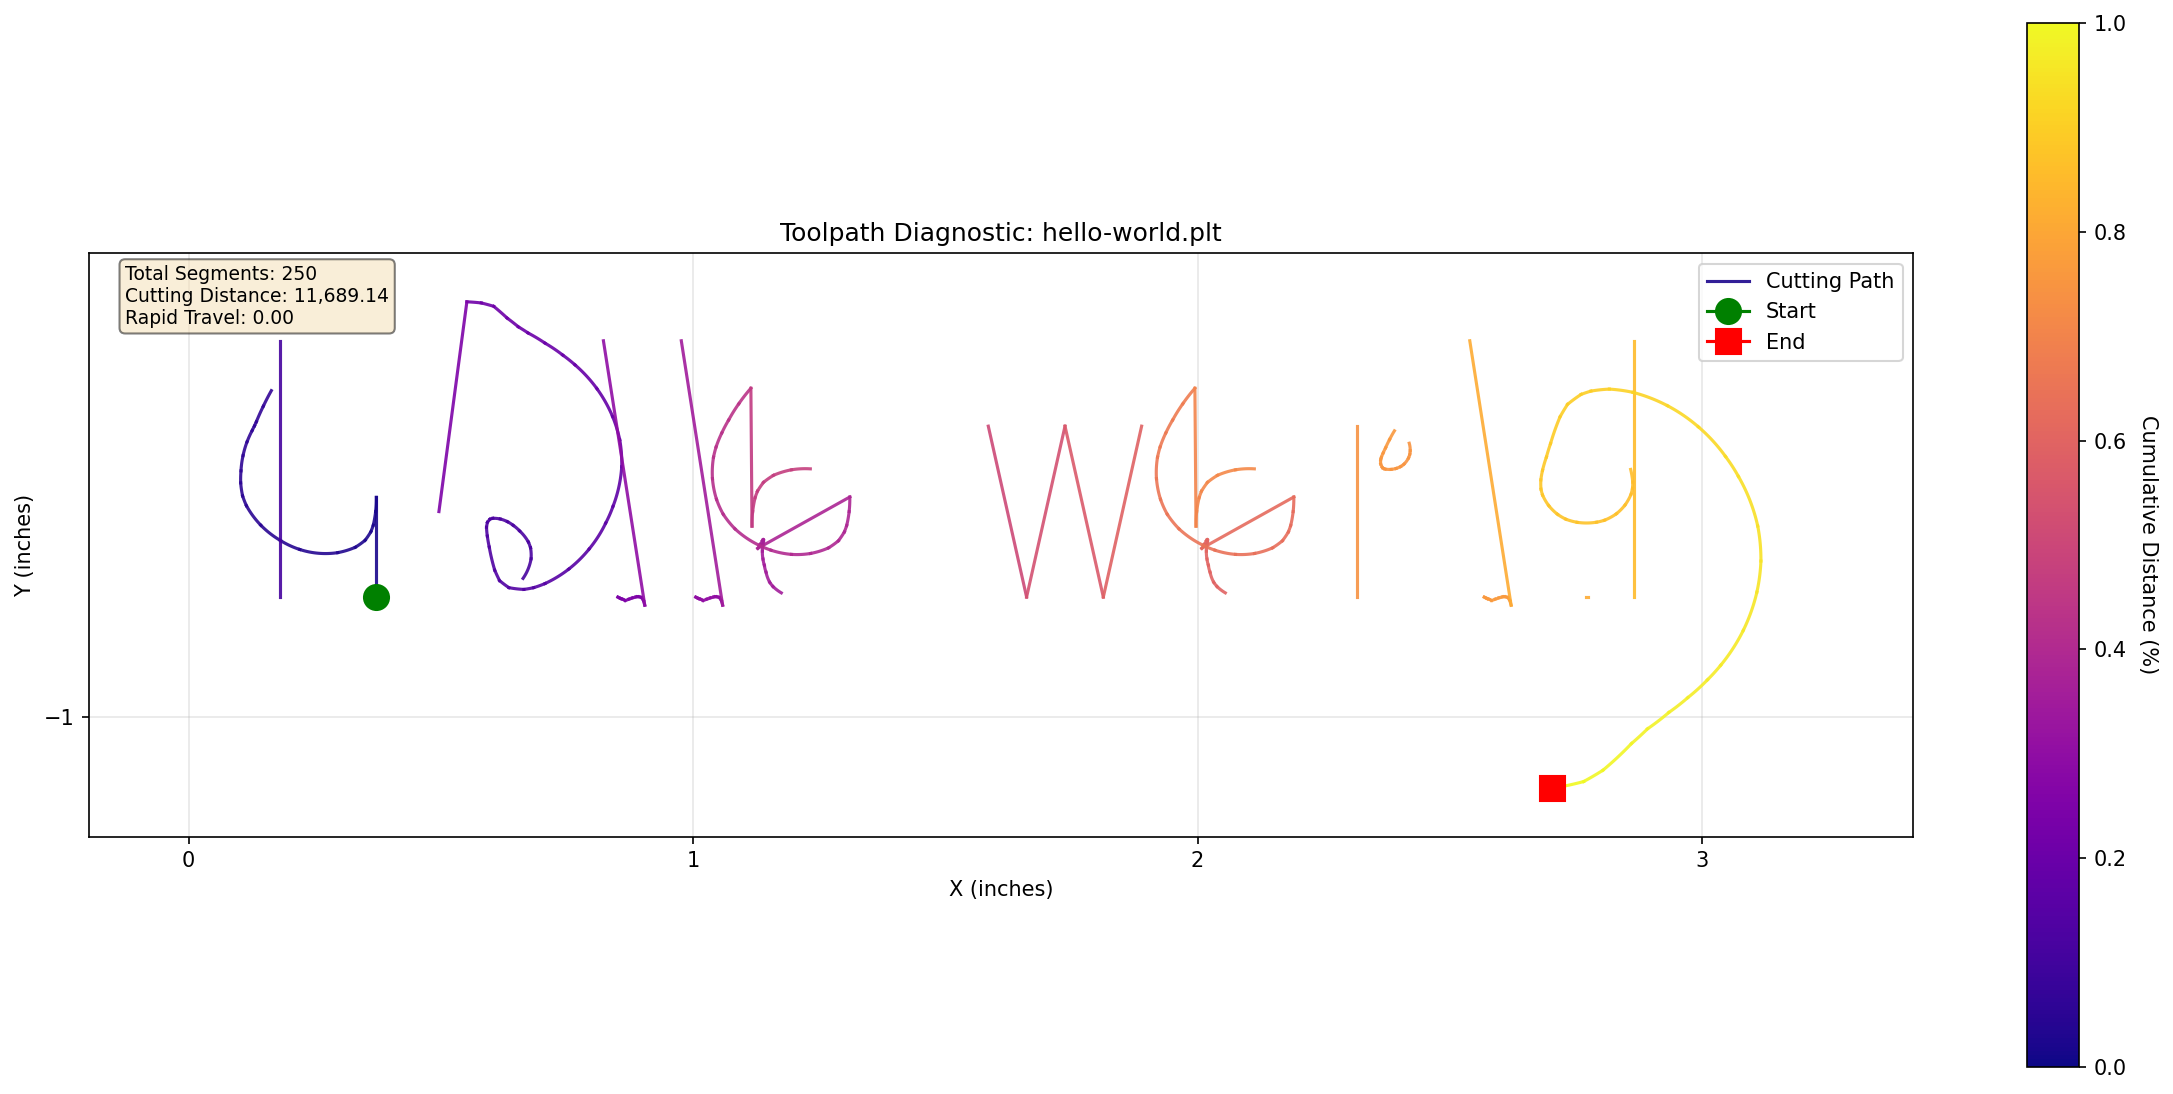
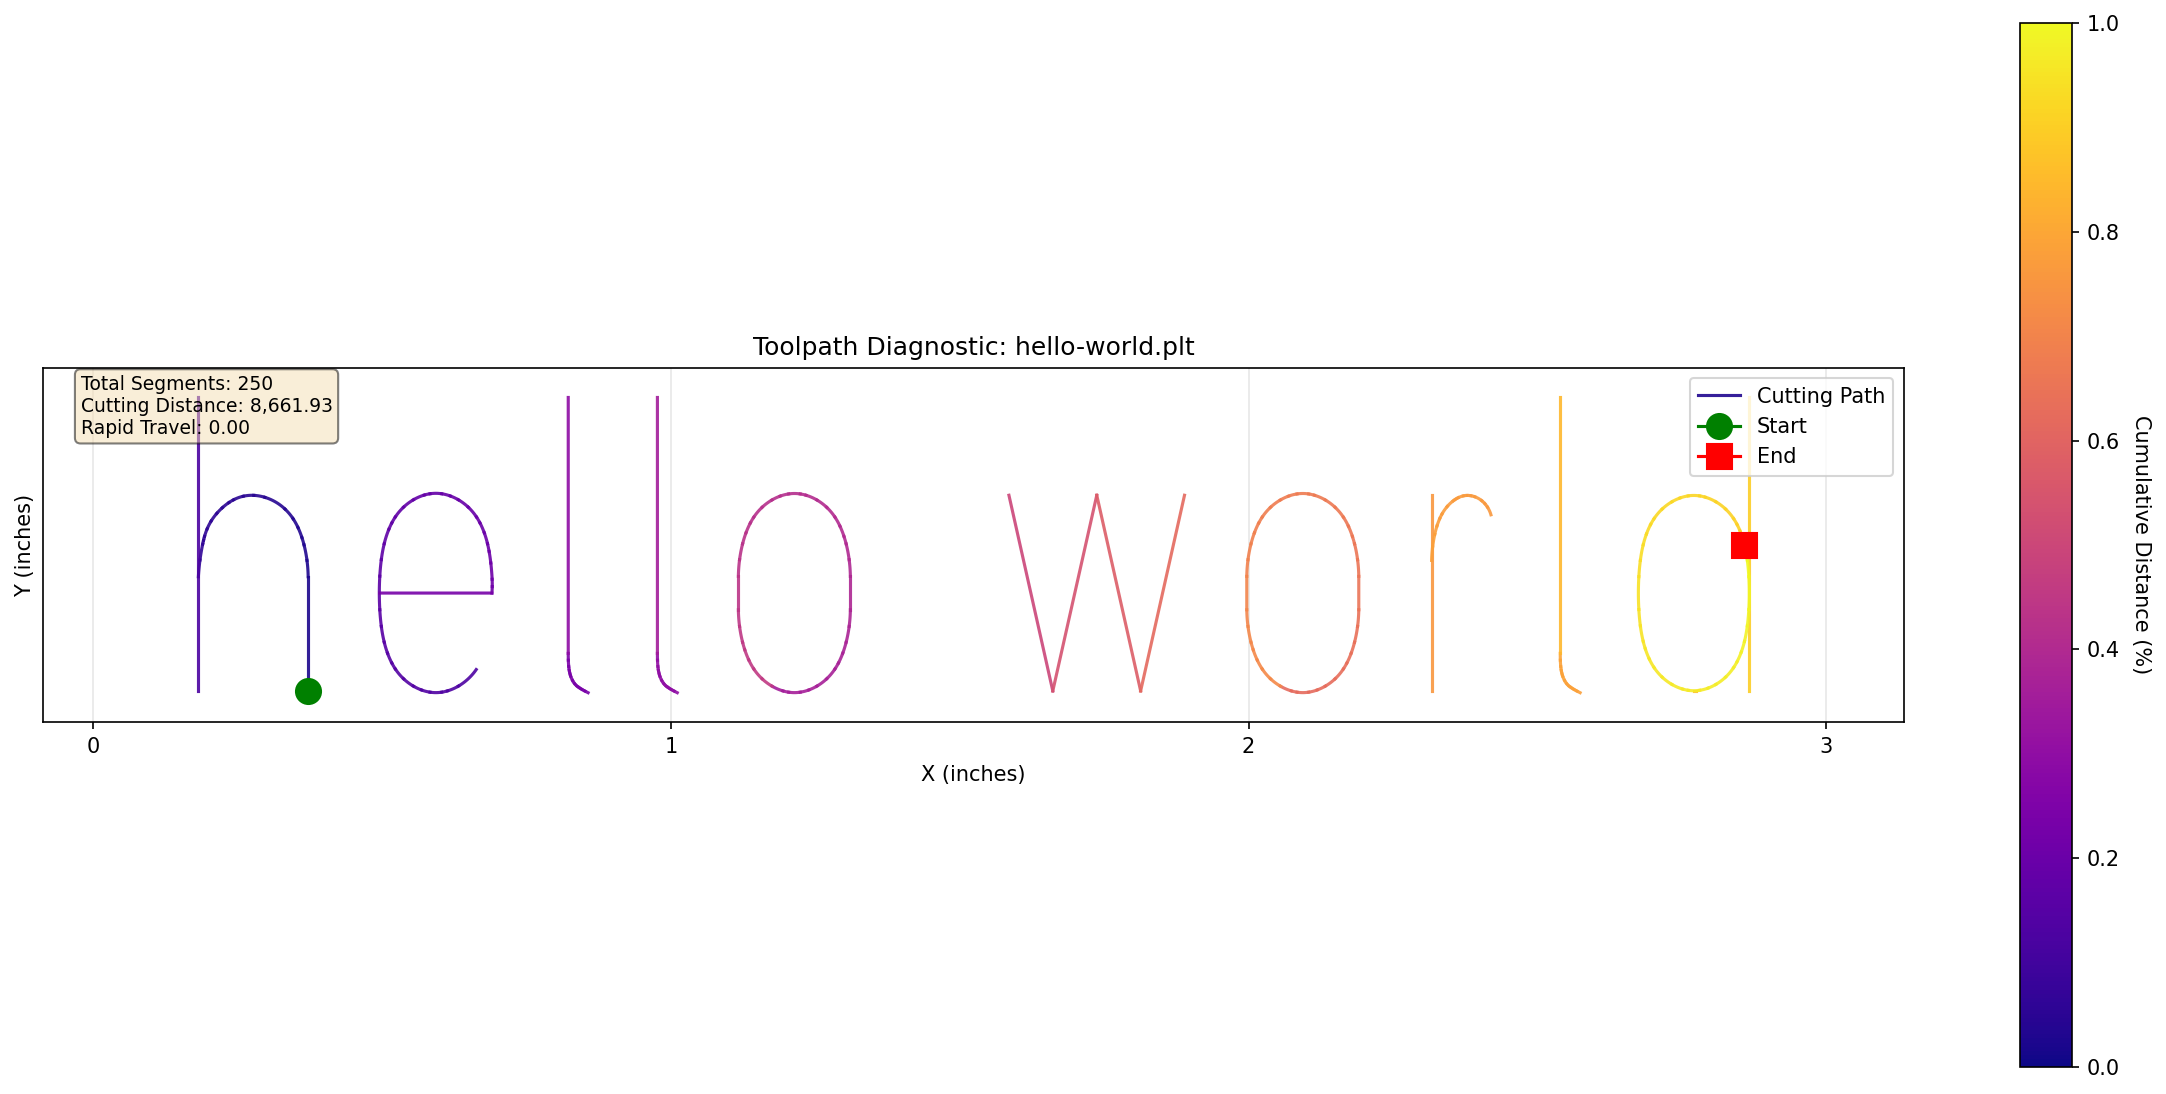
fix: Correct arc sweep angle calculations in parser and writer feat: Add diagnostic entries for hello-world.plt in logs and metrics

diff --git a/plt_optimizer/core/writer.py b/plt_optimizer/core/writer.py
@@ -214,12 +214,12 @@ class PLTWriter:
             arc: The arc segment to format.
 
         Returns:
-            Formatted command string (e.g., 'PD;AA1016.000,1016.000,90.000;').
+            Formatted command string (e.g., 'PD;AA1016.000,1016.000,-90.000;').
         """
         cmd = "PD" if arc.is_cutting else "PU"
         cx = self._format_number(arc.center.x)
         cy = self._format_number(arc.center.y)
-        angle = self._format_number(abs(arc.sweep_angle))
+        angle = self._format_number(arc.sweep_angle)
         return f"{cmd};AA{cx},{cy},{angle};"
 
     def _format_coord(self, coord: Coordinate) -> str:

diff --git a/plt_optimizer/diagnostics/plotter.py b/plt_optimizer/diagnostics/plotter.py
@@ -44,7 +44,7 @@ def _arc_to_points(arc: ArcSegment, num_segments: int = 32) -> list[Coordinate]:
         List of Coordinates sampled along the arc from start to end.
     """
     theta_start = math.atan2(arc.start.y - arc.center.y, arc.start.x - arc.center.x)
-    delta_theta = -arc.sweep_angle * math.pi / 180 / num_segments
+    delta_theta = arc.sweep_angle * math.pi / 180 / num_segments
     radius = arc.radius
 
     points: list[Coordinate] = []

diff --git a/plt_optimizer/core/parser.py b/plt_optimizer/core/parser.py
@@ -416,7 +416,7 @@ class PLTParser:
 
                 radius = start_pos.distance_to(Coordinate(cx, cy))
                 theta_start = math.atan2(start_pos.y - cy, start_pos.x - cx)
-                delta_theta = -sweep_angle * math.pi / 180
+                delta_theta = sweep_angle * math.pi / 180
                 end_x = cx + radius * math.cos(theta_start + delta_theta)
                 end_y = cy + radius * math.sin(theta_start + delta_theta)
 
